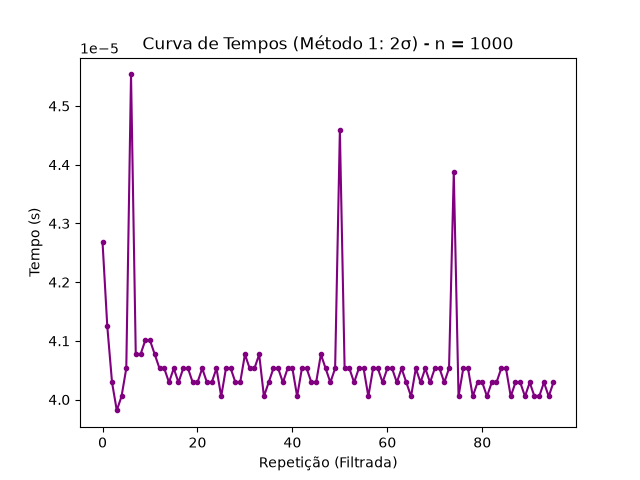
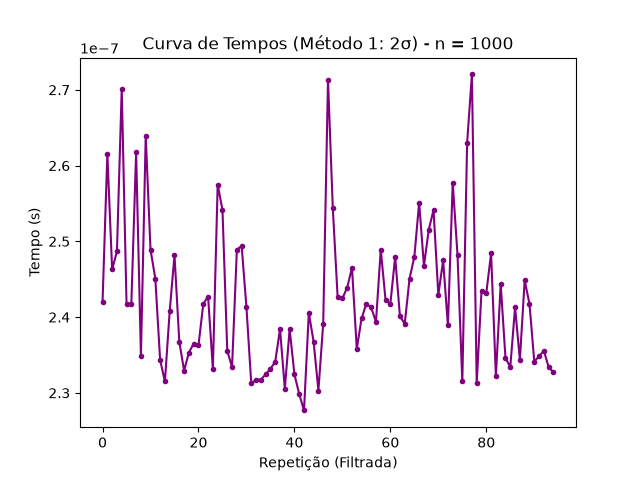
muda o loop

diff --git a/eng_prog/atividade1.py b/eng_prog/atividade1.py
@@ -16,19 +16,21 @@ os.makedirs(pasta_metodo2, exist_ok=True)
 
 lista_n = [1000, 10000, 100000]
 R = 100
-t = []
+TAU_A = []
 
 # Medição dos tempos
 print("Coletando medições de tempo...")
 for n in lista_n:
     tt = []
     for r in range(R):
-        tic = time()
+        t = 0
         for i in range(n):
+            tic = time()
             x = 1
-        toc = time()
-        tt.append(toc - tic)
-    t.append(tt)
+            toc = time()
+            t += toc - tic
+        tt.append(t / n)  # tempo medio por iteracao nesta repeticao
+    TAU_A.append(tt)
 
 # Método 1: Eliminar outliers usando a regra de x desvios padrão (x = 2 ou x = 3)
 def eliminar_outliers_desvio(tt, x=3):
@@ -51,7 +53,7 @@ txt_sem_filtragem_lines = ["========================================\n",
                            "  RELATÓRIO DE RESULTADOS: SEM FILTRAGEM (DADOS BRUTOS)\n",
                            "========================================\n\n"]
 
-for n, tt in zip(lista_n, t):
+for n, tt in zip(lista_n, TAU_A):
     tt = np.array(tt)
     txt_sem_filtragem_lines.append(f"=== Resultados para n = {n} ===\n")
     
@@ -95,7 +97,7 @@ txt_metodo1_lines = ["========================================\n",
                      "  RELATÓRIO DE RESULTADOS: MÉTODO 1 (DESVIO PADRÃO)\n",
                      "========================================\n\n"]
 
-for n, tt in zip(lista_n, t):
+for n, tt in zip(lista_n, TAU_A):
     tt = np.array(tt)
     txt_metodo1_lines.append(f"=== Resultados para n = {n} ===\n")
     
@@ -141,7 +143,7 @@ txt_metodo2_lines = ["========================================\n",
                      "  RELATÓRIO DE RESULTADOS: MÉTODO 2 (CORTE PERCENTUAL)\n",
                      "========================================\n\n"]
 
-for n, tt in zip(lista_n, t):
+for n, tt in zip(lista_n, TAU_A):
     tt = np.array(tt)
     txt_metodo2_lines.append(f"=== Resultados para n = {n} ===\n")
     
